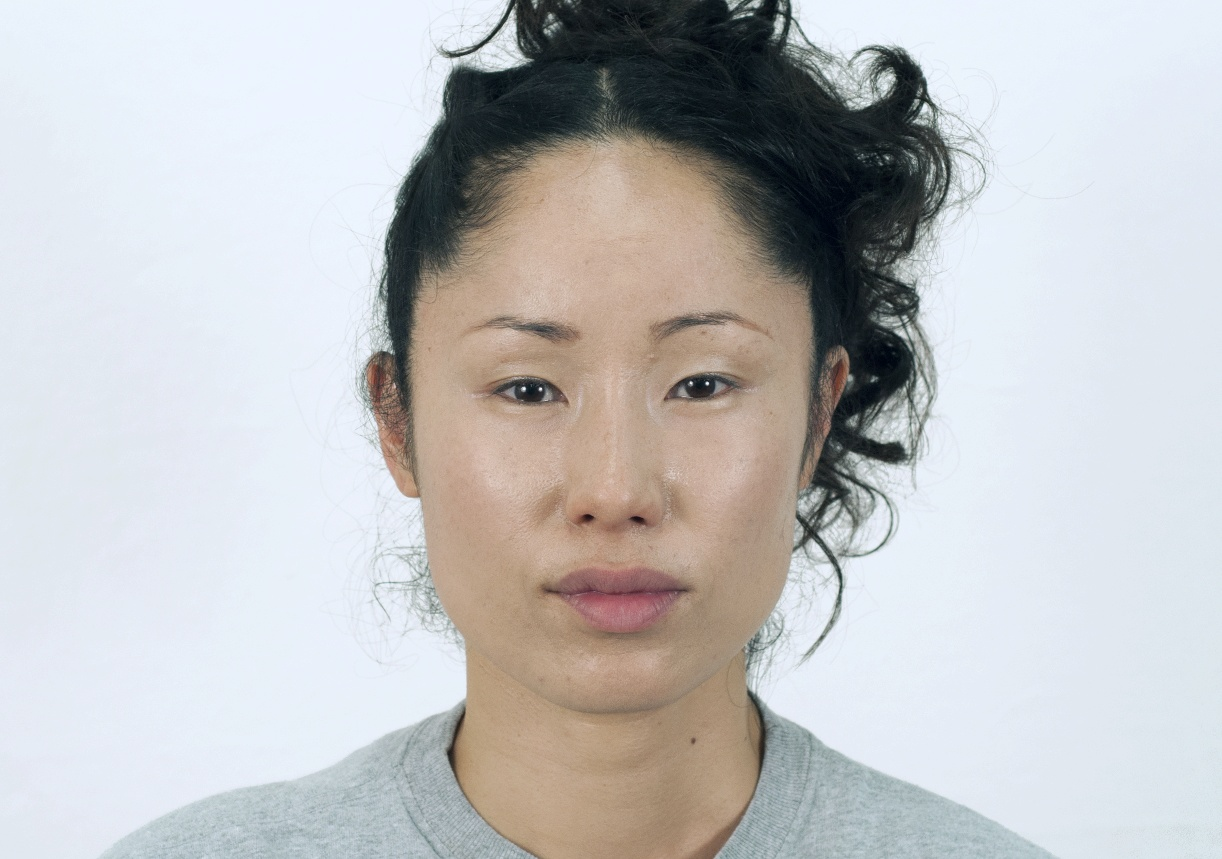
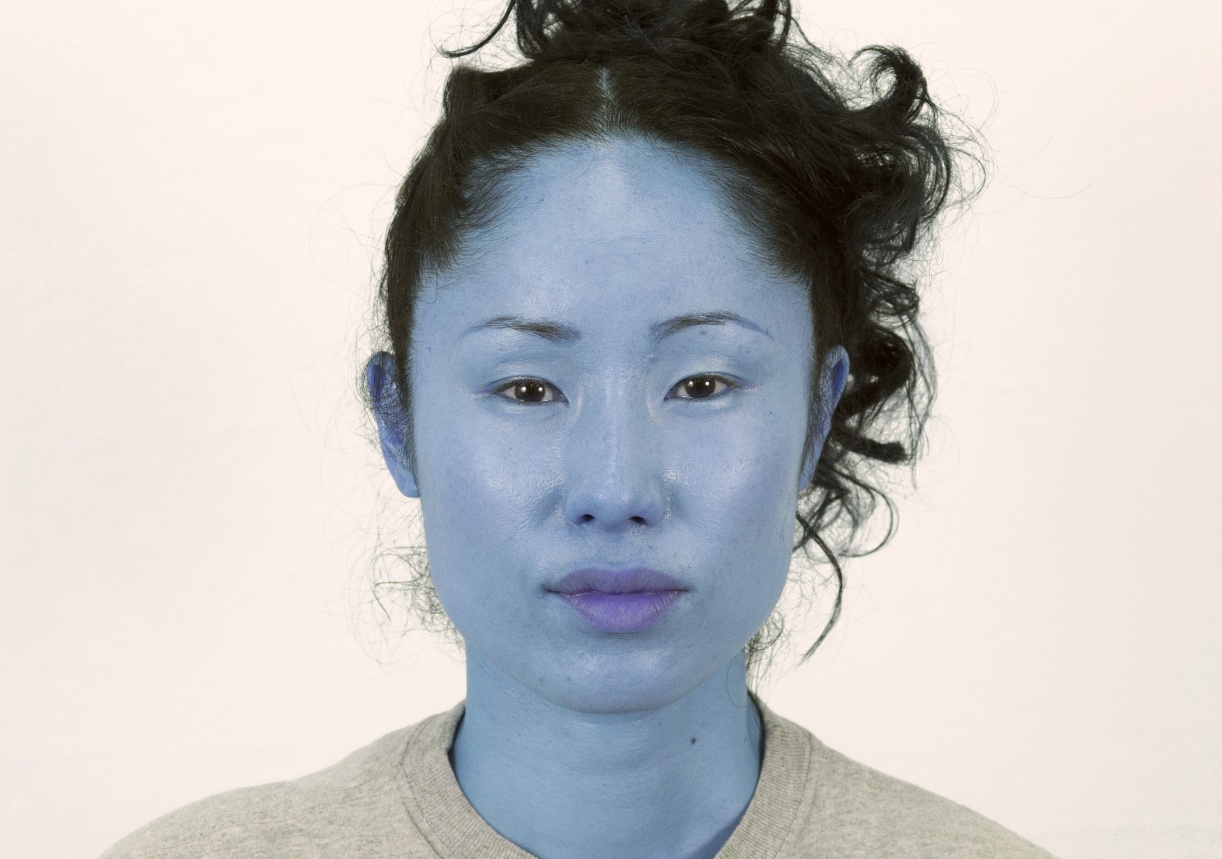
Color correcting for own visual data compared to dataset.

Changed region(s): [[0.2799, 0.1513, 0.7152, 1.0], [0.8396, 0.9988, 0.8707, 1.0]]

diff --git a/dataHTML.py b/dataHTML.py
@@ -9,7 +9,7 @@ import io
 import rawpy
 
 import facial_features
-import color_correct
+import color_corrector
 
 # Display the 3 color swatches (left cheek, right cheek, forehead) and the average Lab values 
 def display_skin_info_HTML(filename, startImg, endImg):
@@ -243,9 +243,9 @@ def display_hair_info_HTML(filename, startImg, endImg):
 #-----------------------------------------------------------------------------
 # THESE FUNCTIONS ARE USED TO DISPLAY ALL THE FEATURES AND VALUES ON A "TEST" HTML PAGE  
 
-def display_all_features_HTML(img_str, counter, color_corrected, inBGR):
+def display_all_features_HTML(img_str, counter, ours, color_correct, inBGR):
     rows = []
-    data = facial_features.facial_features_and_values(img_str, color_corrected, inBGR)
+    data = facial_features.facial_features_and_values(img_str, ours, color_correct, inBGR)
 
     #original_image = data['original_image']
     color_corrected_image = data['color_corrected_image']
@@ -340,7 +340,7 @@ def display_all_features_HTML(img_str, counter, color_corrected, inBGR):
     return rows
 
 
-def create_HTML_file_all_features_specific_our_photos(filename, imgList, color_corrected = 1, inBGR = 1):
+def create_HTML_file_all_features_specific_our_photos(filename, imgList, ours = True, color_correct = True, inBGR = 1):
     # Create an HTML template for displaying the images
     html_template = '''
     <!DOCTYPE html>
@@ -362,7 +362,7 @@ def create_HTML_file_all_features_specific_our_photos(filename, imgList, color_c
     # Process the files in order
     for img_str in imgList:
         img_str = "OurPhotos/" + img_str
-        img_HTML_rows = display_all_features_HTML(img_str, counter, color_corrected, inBGR = 1)
+        img_HTML_rows = display_all_features_HTML(img_str, counter, ours, color_correct, inBGR = 1)
         rows += img_HTML_rows
         print(counter)
         counter+=1
@@ -374,7 +374,7 @@ def create_HTML_file_all_features_specific_our_photos(filename, imgList, color_c
         f.write(html)
 
 
-def create_HTML_file_all_features_specific(filename, img_str, color_corrected = 1):
+def create_HTML_file_all_features_specific(filename, img_str, ours = False, color_correct = True):
     # Create an HTML template for displaying the images
     html_template = '''
     <!DOCTYPE html>
@@ -393,7 +393,7 @@ def create_HTML_file_all_features_specific(filename, img_str, color_corrected = 
     # Generate HTML code for each row of images
     rows = []
     counter = 0
-    img_HTML_rows = display_all_features_HTML(img_str, counter, color_corrected, inBGR = 1)
+    img_HTML_rows = display_all_features_HTML(img_str, counter, ours, color_correct, inBGR = 1)
     rows += img_HTML_rows
 
     html = html_template.format(rows="\n".join(rows))
@@ -403,7 +403,7 @@ def create_HTML_file_all_features_specific(filename, img_str, color_corrected = 
         f.write(html)
 
 
-def create_HTML_file_all_features(filename, startImg, endImg, color_corrected = 1):
+def create_HTML_file_all_features(filename, startImg, endImg, ours = False, color_correct = True):
     # Create an HTML template for displaying the images
     html_template = '''
     <!DOCTYPE html>
@@ -439,7 +439,7 @@ def create_HTML_file_all_features(filename, startImg, endImg, color_corrected = 
     for file_name in sorted_files:
         img_str = "ChicagoFaceDatabaseImages/" + file_name
 
-        img_HTML_rows = display_all_features_HTML(img_str, counter, color_corrected, 0)
+        img_HTML_rows = display_all_features_HTML(img_str, counter, ours, color_correct, 0)
         rows += img_HTML_rows
 
         print(counter)
@@ -451,27 +451,34 @@ def create_HTML_file_all_features(filename, startImg, endImg, color_corrected = 
     with open(filename, "w") as f:
         f.write(html)
      
+<<<<<<< Updated upstream
+=======
+#imgage_str = "ColorCorrectedImages/CCF35.jpg"
+displayAllFeatures_HTML("./test", 211, 221)
+>>>>>>> Stashed changes
 
 
 
 # Use this function to look through the images in the ChicagoFaceDatabaseImages start-end
-# HTML filename, start img #, end img #, color_corrected 0 or 1
-create_HTML_file_all_features("test", 252, 254, 1)
+# HTML filename, start img #, end img #, color_correct True or False
+create_HTML_file_all_features("test", 0, 5)
 
 
 
 # Use this function to look at one specific image
-# HTML filename, color_corrected 0 or 1
-img_str = "OurPhotos/DSC06481_2.JPG"
+# HTML filename, color_correct True or False
+# img_str = "OurPhotos/DSC06481_2.JPG"
 #create_HTML_file_all_features_specific("test", img_str,  1)
 
 
 # Use this function to look through all the images in OurPhotos
-imgList = ["DSC06469.JPG", "DSC06471.JPG", "DSC06473.JPG", "DSC06474.JPG","DSC06477.JPG",
-           "DSC06479.JPG", "DSC06481.JPG", "DSC06483.JPG", "DSC06484.JPG", "DSC06488.JPG",
-            "DSC06489.JPG", "DSC06491.JPG", "DSC06494.JPG"]
-imgList = ["DSC06473.JPG", "DSC06474.JPG", "DSC06481.JPG"]
-create_HTML_file_all_features_specific_our_photos("test_ours", imgList, 1)
+# imgList = ["DSC06469.JPG", "DSC06471.JPG", "DSC06473.JPG", "DSC06474.JPG","DSC06477.JPG",
+#            "DSC06479.JPG", "DSC06481.JPG", "DSC06483.JPG", "DSC06484.JPG", "DSC06488.JPG",
+#             "DSC06489.JPG", "DSC06491.JPG", "DSC06494.JPG"]
+# imgList = ["DSC06471.JPG","DSC06473.JPG","DSC06474.JPG","DSC06477.JPG","DSC06479.JPG","DSC06481.JPG",
+#            "DSC06483.JPG","DSC06484.JPG","DSC06488.JPG","DSC06489.JPG","DSC06491.JPG","DSC06494.JPG"]
+# # imgList = ["DSC06473.JPG", "DSC06474.JPG", "DSC06481.JPG"]
+# create_HTML_file_all_features_specific_our_photos("test_ours", imgList, True)
 
 
 

diff --git a/color_corrector.py b/color_corrector.py
@@ -1,0 +1,47 @@
+import numpy as np
+import cv2
+import glob
+import numpy.typing as npt
+
+def color_corrector(image) -> None:
+    """This function is to color correct all original photos from the Chicago Face Database. This is mainly using the algorithm from
+    https://stackoverflow.com/questions/70876252/how-to-do-color-cast-removal-or-color-coverage-in-python on how to remove color cast
+    from photos. To remove color cast you must convert the image from BGR to HSV color space and then flip the hue channel
+    to its complement. Then you merge the new hue channel back with the original S and V channels and convert back to BGR. Then you get
+    the average color of that reconverted BGR image and make a new image with that average color. You blend the two images together 50-50
+    and normalize the photo."""
+    # resizing img to fit in window
+    cv_img = cv2.imread(image)
+    scale = 0.5
+    resized_img = cv2.resize(cv_img, None, fx=scale, fy=scale, interpolation=cv2.INTER_AREA)
+    hsv_img = cv2.cvtColor(resized_img, cv2.COLOR_BGR2HSV)
+    # og resized img
+    # cv2.imshow("Resized Image", resized_img)
+    # cv2.waitKey(0)
+    # cv2.destroyAllWindows()
+    # converting to HSV and splitting channels
+    h, s, v = cv2.split(hsv_img)
+    # flippig hue to be its complement
+    h_complement = (h + 90) % 180
+    # merge hue complement with original saturation and value
+    comp_hsv_img = cv2.merge([h_complement, s, v])
+    comp_bgr_img = cv2.cvtColor(comp_hsv_img, cv2.COLOR_HSV2BGR)
+    avg_color = cv2.mean(comp_bgr_img)
+    constant_color = tuple(map(int, avg_color[:3]))
+    avg_img = np.full_like(resized_img, constant_color)
+    # blending constant color image and og image together
+    blended_img = cv2.addWeighted(resized_img, 0.5, avg_img, 0.5, 0)
+    # normalizing image
+    final_img= cv2.normalize(blended_img, None, 0, 255, cv2.NORM_MINMAX).astype(np.uint8)
+    # cv2.imshow("Color Corrected Image", final_img)
+    # cv2.waitKey(0)
+    # cv2.destroyAllWindows()
+    return final_img
+        
+def color_correct_all():
+    count = 0
+    for image in glob.glob("./ChicagoFaceDatabaseImages/*.jpg"):
+        cc_img = color_corrector(image)
+        filename = f"./ColorCorrectedImages/CCF{count}.jpg"
+        cv2.imwrite(filename, cc_img)
+        count += 1

diff --git a/get_background.py b/get_background.py
@@ -1,0 +1,52 @@
+import numpy as np
+import cv2
+import glob
+import numpy.typing as npt
+
+def get_avg_bg(cv_img):
+    # base hue and saturation using hsv color space from a square of background in our original dataset
+    base_h = 101
+    base_s = 17
+    # cv_img = cv2.imread(image)
+    hsv_img = cv2.cvtColor(cv_img, cv2.COLOR_BGR2HSV)
+    
+    # hue and saturation from incoming photo
+    background_h = int(np.mean(hsv_img[:100,:100,0].flatten()))
+    background_s = int(np.mean(hsv_img[:100,:100,1].flatten()))
+    
+    # difference in h and s of dataset and own visual data
+    h_diff = base_h-background_h
+    s_diff = base_s-background_s
+    
+    # add difference
+    corrected_s = cv2.add(hsv_img[:,:,1], s_diff, dtype=cv2.CV_8UC1)
+    corrected_h = cv2.add(hsv_img[:,:,0], h_diff, dtype=cv2.CV_8UC1)
+    
+    # remerged image and resized
+    corrected_img = cv2.merge((corrected_h, corrected_s, hsv_img[:,:,2]))
+    bgr_img = cv2.cvtColor(corrected_img, cv2.COLOR_HSV2BGR)
+    scalex = 859/bgr_img.shape[0]
+    scaley = 1222/bgr_img.shape[1]
+    resized_img = cv2.resize(bgr_img, None, fx=scalex, fy=scaley, interpolation=cv2.INTER_AREA)
+    # cv2.imshow("img", resized_img)
+    # cv2.imshow("cc", cv_img)
+    # cv2.waitKey(0)
+    # cv2.destroyAllWindows()
+
+    return resized_img
+
+# # # test
+# count = 0
+# for image in glob.glob("./OurPhotos/CCF*.jpg"):
+#     cc_img = get_avg_bg(image)
+#     filename = f"./OurPhotos/BCCF{count}.jpg"
+#     cv2.imwrite(filename, cc_img)
+#     count += 1
+# img_path = "./CCDSC06469.JPG"
+# new_img = get_avg_bg(img_path)
+# cv2.imwrite("./2BCCDSC06469.JPG",new_img)
+
+# test2
+# img_path = "./ColorCorrectedImages/CCF0.JPG"
+# get_avg_bg(img_path)
+# cv2.imwrite("./BCCF0.JPG",new_img)

diff --git a/facial_features.py b/facial_features.py
@@ -4,10 +4,11 @@ import sys
 import numpy as np
 import glob
 from PIL import Image
-import color_correct
+import color_corrector
 import matplotlib.pyplot as plt
 import rawpy
-import imageio
+import get_background
+# import imageio
 
 
 #def detect_facial_landmarks(img_path):
@@ -538,15 +539,19 @@ def get_hair_mask(image, threshold_value):
 
 
 
-def facial_features_and_values(img_str, color_corrected, inBGR):
+def facial_features_and_values(img_str, ours, color_correct, inBGR):
     original_image = cv2.imread(img_str)
     
 
     # COLOR CORRECT THE IMAGE 
-    if color_corrected == 1:
-        image = color_correct.color_correct(img_str)
+    if color_correct is True:
+        image = color_corrector.color_corrector(img_str)
     else:
         image = cv2.imread(img_str)
+    
+    # CORRECT IMAGE BASED ON DATASET
+    if ours is True:
+        image = get_background.get_avg_bg(image)
 
     # if inBGR == 1:
     #     image = cv2.cvtColor(image, cv2.COLOR_BGR2RGB)
